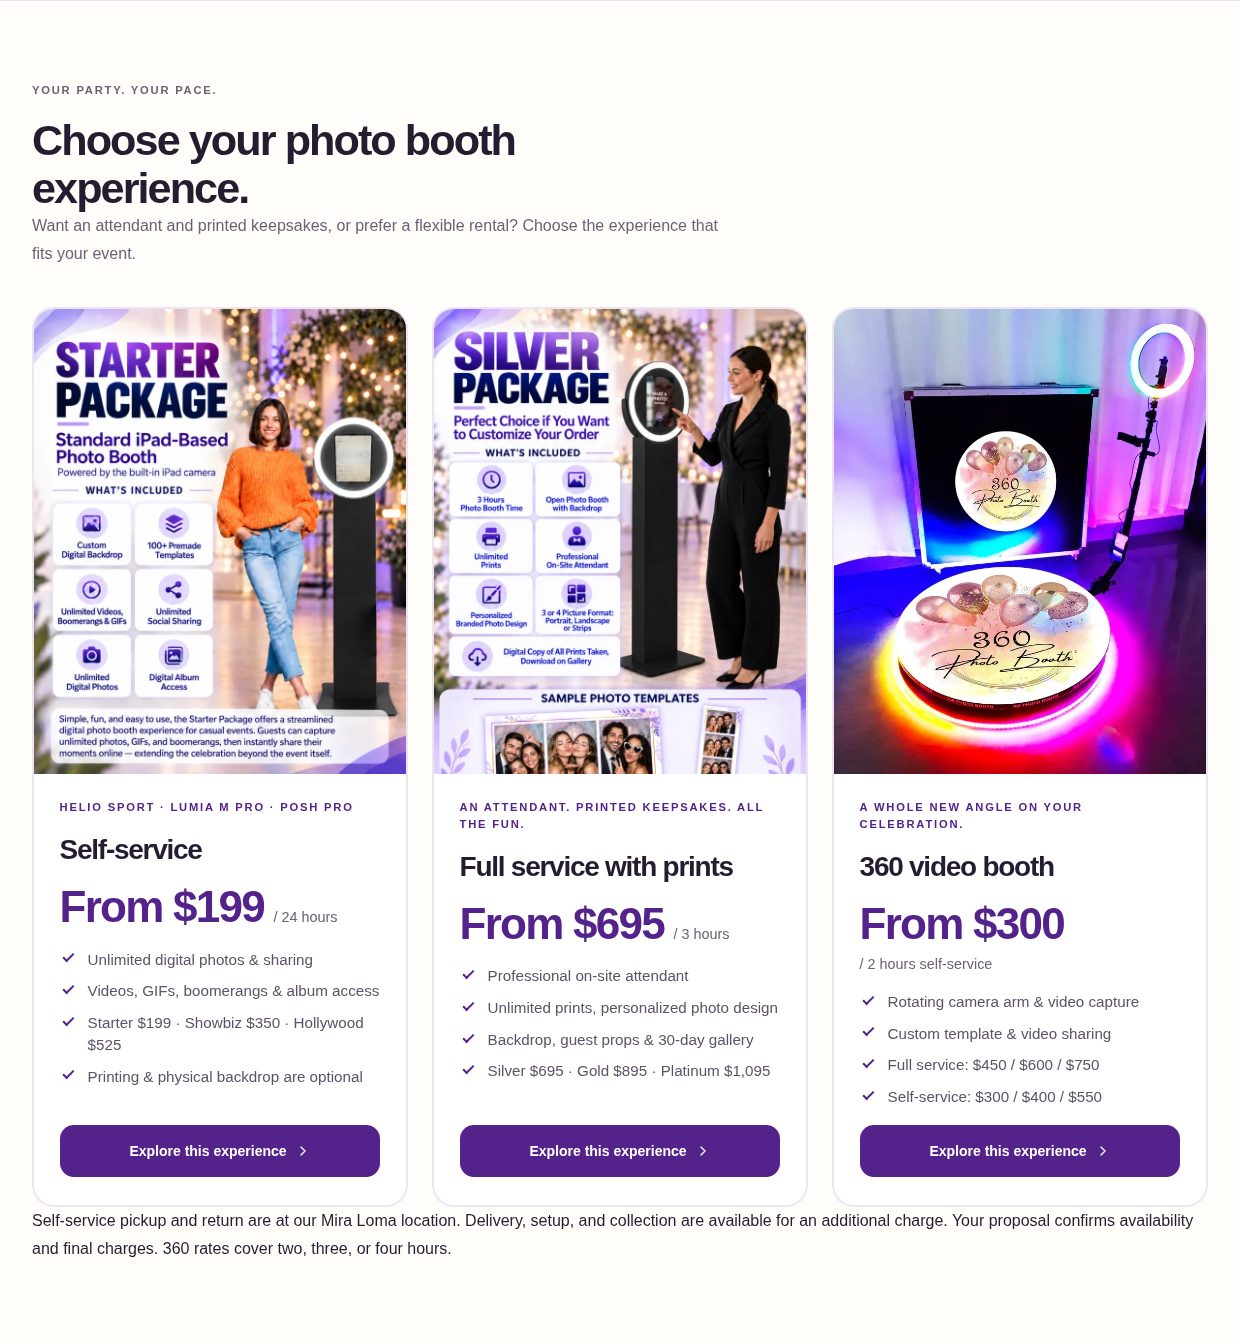
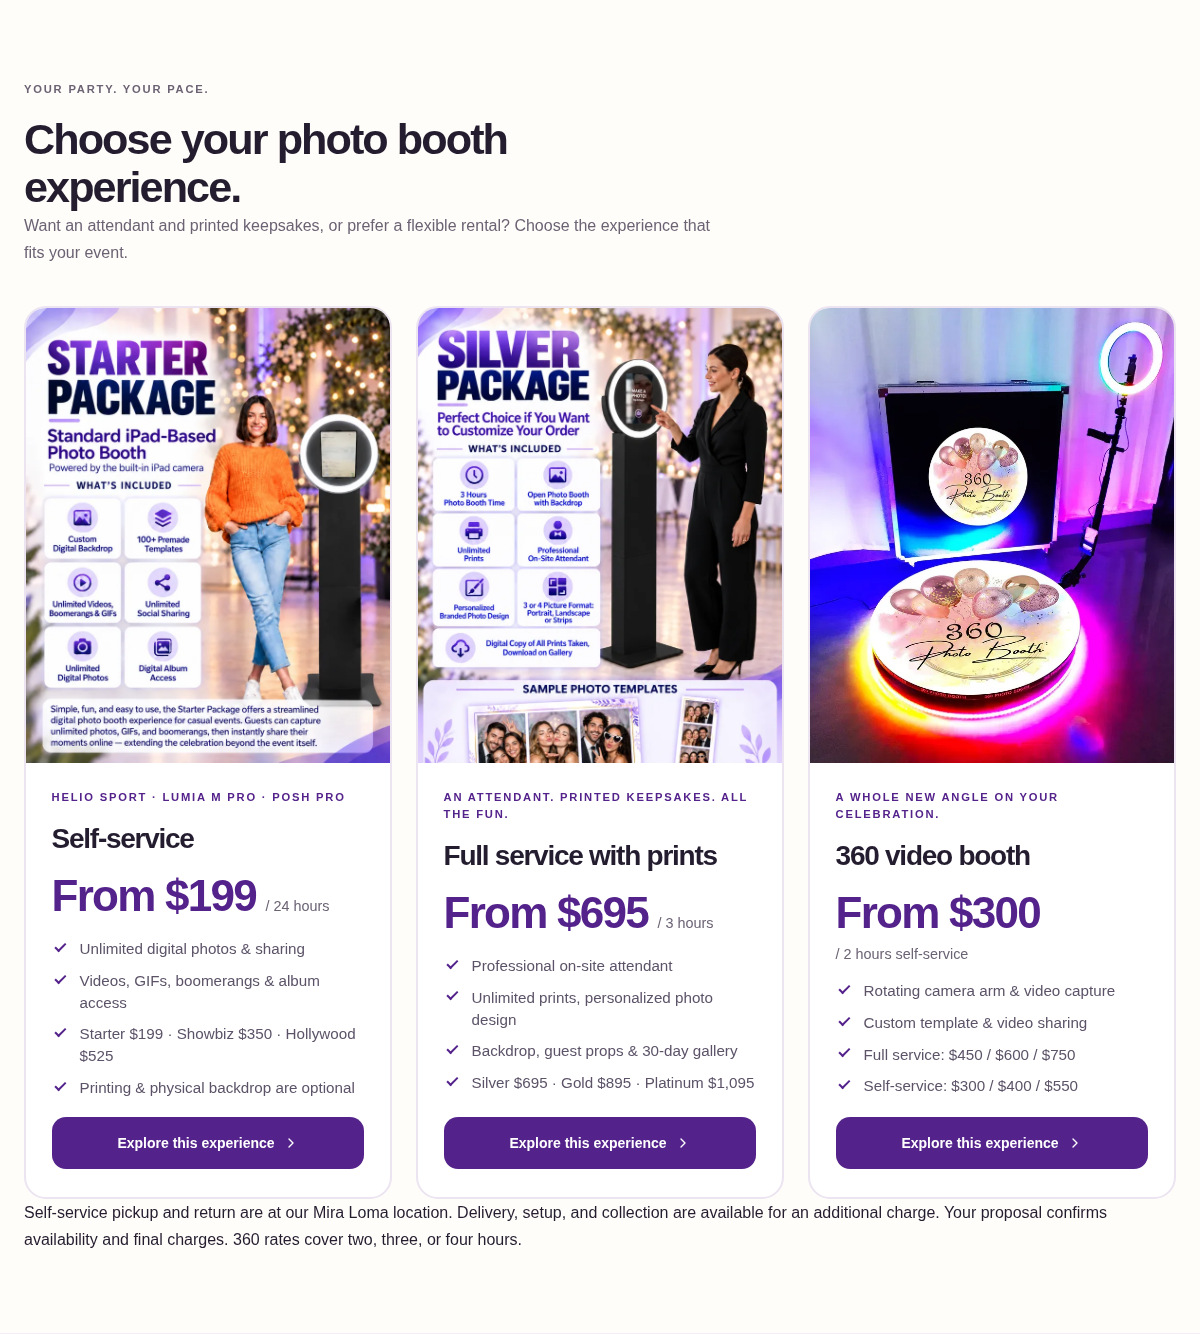
Apply consistent spacing and layouts across site templates

Changed region(s): [[0.0, 0.0615, 0.9867, 0.9528], [0.925, 0.8298, 0.9558, 0.8606], [0.0308, 0.8298, 0.0617, 0.8606]]

diff --git a/src/styles/global.css b/src/styles/global.css
@@ -45,3 +45,64 @@
 @media (max-width: 680px) {
   .hero-wrap { padding: 2.75rem 0 3rem; }
 }
+
+/* Shared spacing follows the packages page; fonts remain page-specific. */
+:root { --site-width: 1200px; --site-gutter: 1.5rem; }
+.section { max-width: var(--site-width); padding: 5rem var(--site-gutter); }
+.page-body { max-width: var(--site-width); padding: 3rem var(--site-gutter) 5rem; }
+.site-header, .topbar, footer {
+  padding-left: max(var(--site-gutter), calc((100% - 1152px) / 2));
+  padding-right: max(var(--site-gutter), calc((100% - 1152px) / 2));
+}
+.page-body:not(.article-page):not(.product-page) > .content p { max-width: 75ch; }
+.article-page .content { max-width: 760px; margin: 0 auto; line-height: 1.8; }
+.article-page .content h2 { margin: 3rem 0 1.25rem; }
+.article-page .content h3 { margin: 2.25rem 0 1rem; }
+.article-page .content p { margin: 1.25rem 0; line-height: 1.8; }
+.article-page .content li { margin: .65rem 0; }
+.about-page .content > section:first-child:has(> .widget-icon-box) { display: grid; grid-template-columns: repeat(4, minmax(0, 1fr)); gap: 1.5rem; margin-bottom: 3rem; }
+.about-page .content > section:first-child > .widget-icon-box { margin: 0; padding: 1.5rem; border: 1px solid #e7deee; border-radius: 18px; background: #f3edf7; }
+.about-page .content > section:first-child > .widget-icon-box h3 { margin: 0; color: #54228b; font-size: 2rem; }
+.about-page .content > section:first-child > .widget-icon-box p { margin: .75rem 0 0; }
+.content > section:first-child > .widget:first-child { margin-top: 0; }
+.catalog-controls { display: flex; flex-direction: column; gap: .75rem; margin: 0 0 2rem; font-weight: 600; }
+.catalog-grid { gap: 1.5rem; }
+.catalog-grid .catalog-card { display: flex; flex-direction: column; gap: 1rem; padding: 1.5rem; border: 2px solid #ece4f1; border-radius: 22px; }
+.catalog-grid .catalog-card[hidden] { display: none; }
+.catalog-grid .catalog-card > img { width: 100%; height: 240px; object-fit: contain; background: #f7f2fb; border-radius: 14px; }
+.catalog-grid .catalog-card h2 { margin: 0; font-size: 1.3rem; line-height: 1.25; }
+.catalog-grid .catalog-card h2 a { text-decoration: none; }
+.catalog-grid .catalog-card p { margin: 0; line-height: 1.6; }
+.catalog-grid .catalog-card-price { color: #54228b; font-size: 1rem; font-weight: 700; }
+.catalog-grid .catalog-action { display: flex; align-items: center; justify-content: center; gap: .5rem; min-height: 48px; margin-top: auto; padding: .75rem 1rem; border-radius: 14px; background: #f3edf7; color: #3a165f; font-weight: 700; text-decoration: none; }
+.catalog-grid .catalog-action:hover { background: #e6daf0; }
+.blog-grid .catalog-card > img { object-fit: cover; }
+.product-overview { display: grid; grid-template-columns: 1.15fr 1fr; gap: 3rem; align-items: start; margin-bottom: 3rem; }
+.product-overview > div { min-width: 0; }
+.product-overview--text-only { grid-template-columns: 1fr; }
+.product-media { padding: 1.5rem; border: 1px solid #e7deee; border-radius: 22px; background: #fff; }
+.product-media > img { display: block; width: 100%; max-height: 480px; object-fit: contain; }
+.product-media .product-gallery { grid-template-columns: repeat(auto-fit, minmax(100px, 1fr)); gap: 1rem; margin: 0; }
+.product-media .product-gallery a:first-child { grid-column: 1 / -1; }
+.product-media .product-gallery img { display: block; height: 100px; padding: .5rem; }
+.product-media .product-gallery a:first-child img { height: 400px; border: 0; padding: 0; }
+.product-summary { padding: 2rem; border-radius: 22px; background: #f3edf7; }
+.product-summary > p { margin: 0 0 1.5rem; }
+.product-summary .product-description { font-size: 1.1rem; line-height: 1.65; }
+.product-summary .catalog-price { font-size: 1.5rem; line-height: 1.4; }
+.product-summary .book-button { min-height: 52px; border-radius: 14px; }
+.product-page .content { padding-top: 2rem; border-top: 1px solid #e7deee; }
+.product-page .content table { margin: 1.5rem 0; line-height: 1.6; }
+@media (max-width: 1000px) {
+  .catalog-grid { grid-template-columns: repeat(2, minmax(0, 1fr)); }
+  .about-page .content > section:first-child:has(> .widget-icon-box) { grid-template-columns: repeat(2, minmax(0, 1fr)); }
+  .product-overview { gap: 1.5rem; }
+}
+@media (max-width: 680px) {
+  .section { padding: 3.5rem var(--site-gutter); }
+  .page-body { padding: 2.5rem var(--site-gutter) 3.5rem; }
+  .catalog-grid, .product-overview { grid-template-columns: 1fr; }
+  .about-page .content > section:first-child:has(> .widget-icon-box) { grid-template-columns: 1fr; }
+  .product-summary { padding: 1.5rem; }
+  .product-media .product-gallery a:first-child img { height: 320px; }
+}
